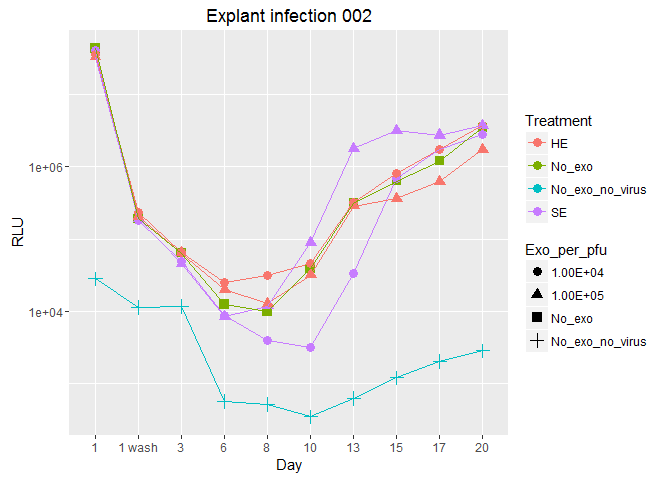
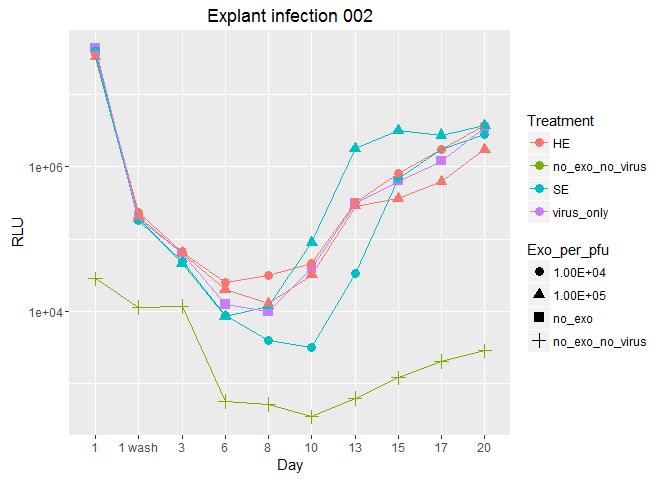
re-organized infection 003 into basically two different experiments, virus + exos and explants + exos, each with their own controls.

diff --git a/explant_infection_experiment_analysis.md b/explant_infection_experiment_analysis.md
@@ -3,11 +3,12 @@ Explant infection experiments
 
 Explant infection overview:
 
-Explants are infected and then washed after 20-24hr. After washing, media is replaced with media containing 0.6ug/ml PHA. PHA-containing media is replaced with plain media after ~24hr.
+Explants are infected at 2E6 pfu/ml and then washed after 20-24hr. After washing, media is replaced with media containing 0.6ug/ml PHA. PHA-containing media is replaced with plain media after ~24hr.
 
 Luciferase levels in collected supernatent are assesed with the Promega nano-glo kit.
 
-Explant infection 001 had the following conditions:
+Explant Infection 001:
+======================
 
 Pre-incubate virus with exosomes before adding to explants:
 
@@ -15,38 +16,44 @@ Pre-incubate virus with exosomes before adding to explants:
 
 -   Exosomes used: SE and HE
 
-We also included explant only and virus only controls. The virus concentration was 2E6 pfu/ml
+We also included explant only and virus only controls.
 
 ![](explant_infection_experiment_analysis_files/figure-markdown_github/infection%20001-1.png)
 
-Explant infection 002 had the same conditions as 001
+Explant infection 002
+=====================
+
+-   Same conditions as 001
 
 ![](explant_infection_experiment_analysis_files/figure-markdown_github/infection%20002-1.png)
 
-Infection 003 had the following conditions:
-
-Pre-incubate virus with exosomes OR seminal sup before adding to explants:
+Explant Infection 003:
+======================
 
 -   Concentrations: 1E5 and 1E4 exosomes per pfu, 1:50 seminal sup.
 
 -   Exosomes used: SE and HE
 
-Pre-incubate explants with exosomes OR seminal sup OR alone before virus is added, same concentrations and exos as above.
+This was a two part experiment:
 
-We also included explant only and virus only controls. The virus concentration was 2E6 pfu/ml.
+Pre-incubate virus with exosomes OR seminal sup before adding to explants:
+
+-   Controls = explants only and explants with virus that was incubated alone at 37C for ~1hr (like the virus + exos)
+
+Pre-incubate explants with exosomes OR seminal sup before virus is added.
+
+-   Controls = explants only and explants infected with virus that was kept in the fridge for ~1hr.
 
 PROTOCOL DEVIATIONS:
 
 -   I forgot to remove the PHA-containing media on day 2, so it wasn't replaced with new media until day 3.
 
--   There were 4 explants in the "pre-incubate with 1E5 HE" condition
+-   There were 4 explants in the "pre-incubate explants with 1E5 HE" condition.
 
-![](explant_infection_experiment_analysis_files/figure-markdown_github/infection%20003-1.png)
+*Reminder*: In the plot below,"virus only" means that the explants were infected with virus that had been incubating (with no exos) for 1hr at 37C.
 
-![](explant_infection_experiment_analysis_files/figure-markdown_github/faceted%20data-1.png)
+![](explant_infection_experiment_analysis_files/figure-markdown_github/plot%20virus+%20exo%20preinc-1.png)
 
-"virus\_preinc" means that the virus alone was at 37C before adding to the explant
+*Reminder*: In the plot below, "virus only" means that the explants were infected with virus that had been in the fridge (with no exos) for 1hr.
 
-"virus\_exo\_ preinc" means that the virus + exos were at 37C before adding to the explant
-
-![](explant_infection_experiment_analysis_files/figure-markdown_github/different%20layout%20version-1.png)![](explant_infection_experiment_analysis_files/figure-markdown_github/different%20layout%20version-2.png)
+![](explant_infection_experiment_analysis_files/figure-markdown_github/plot%20explant%20+%20exo%20preinc-1.png)
